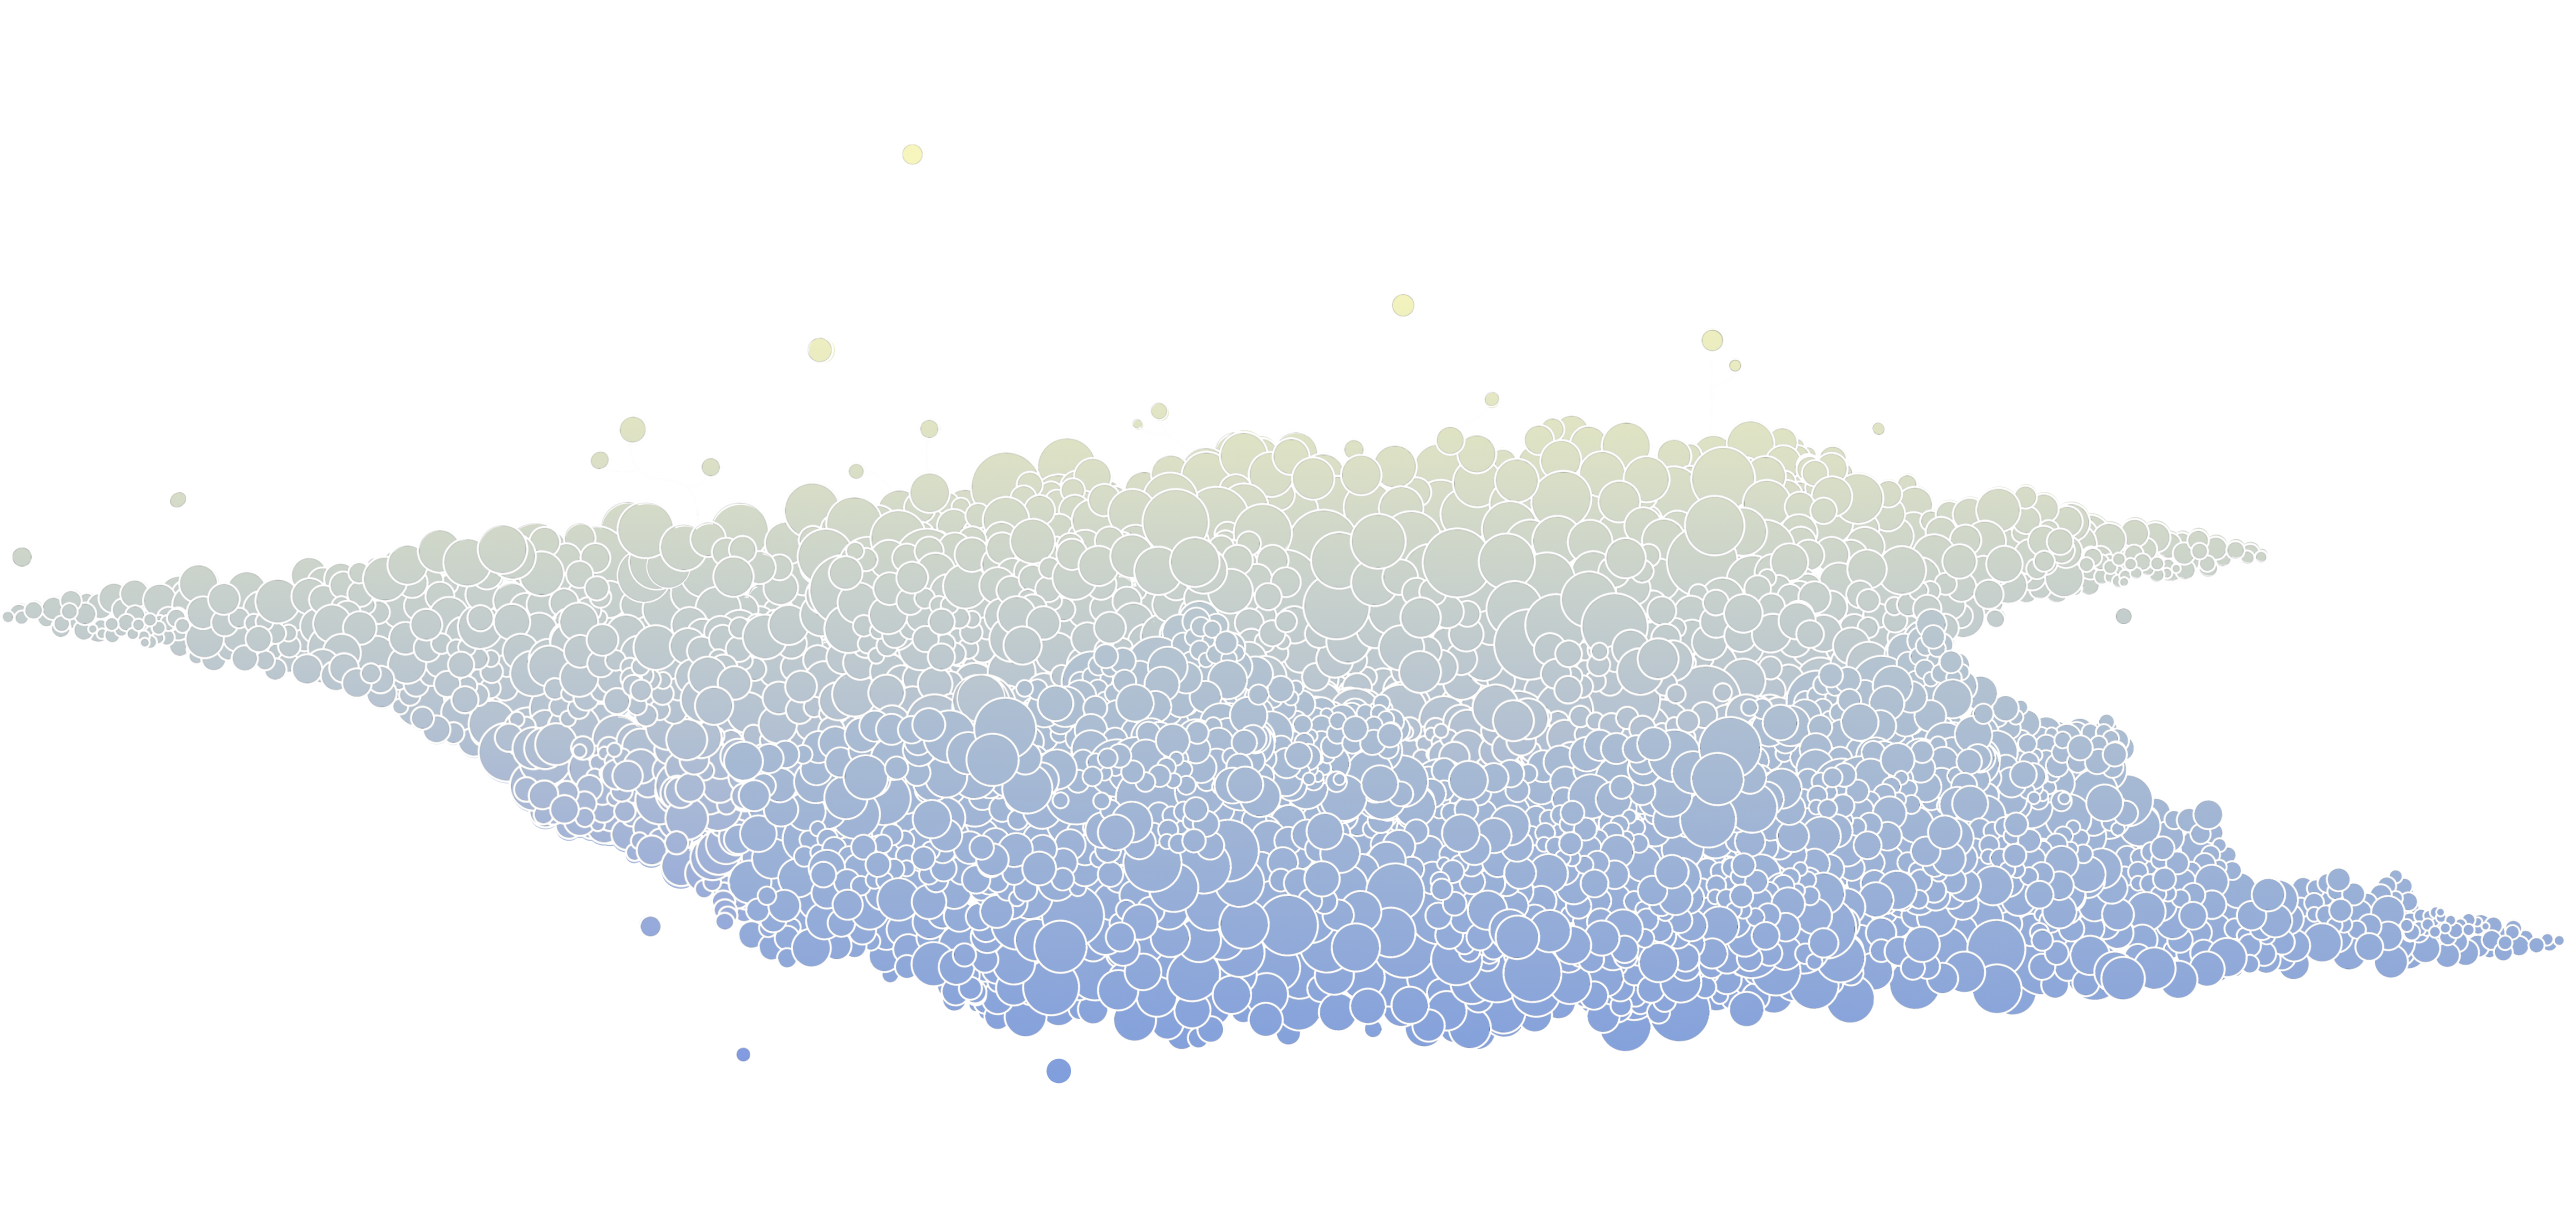
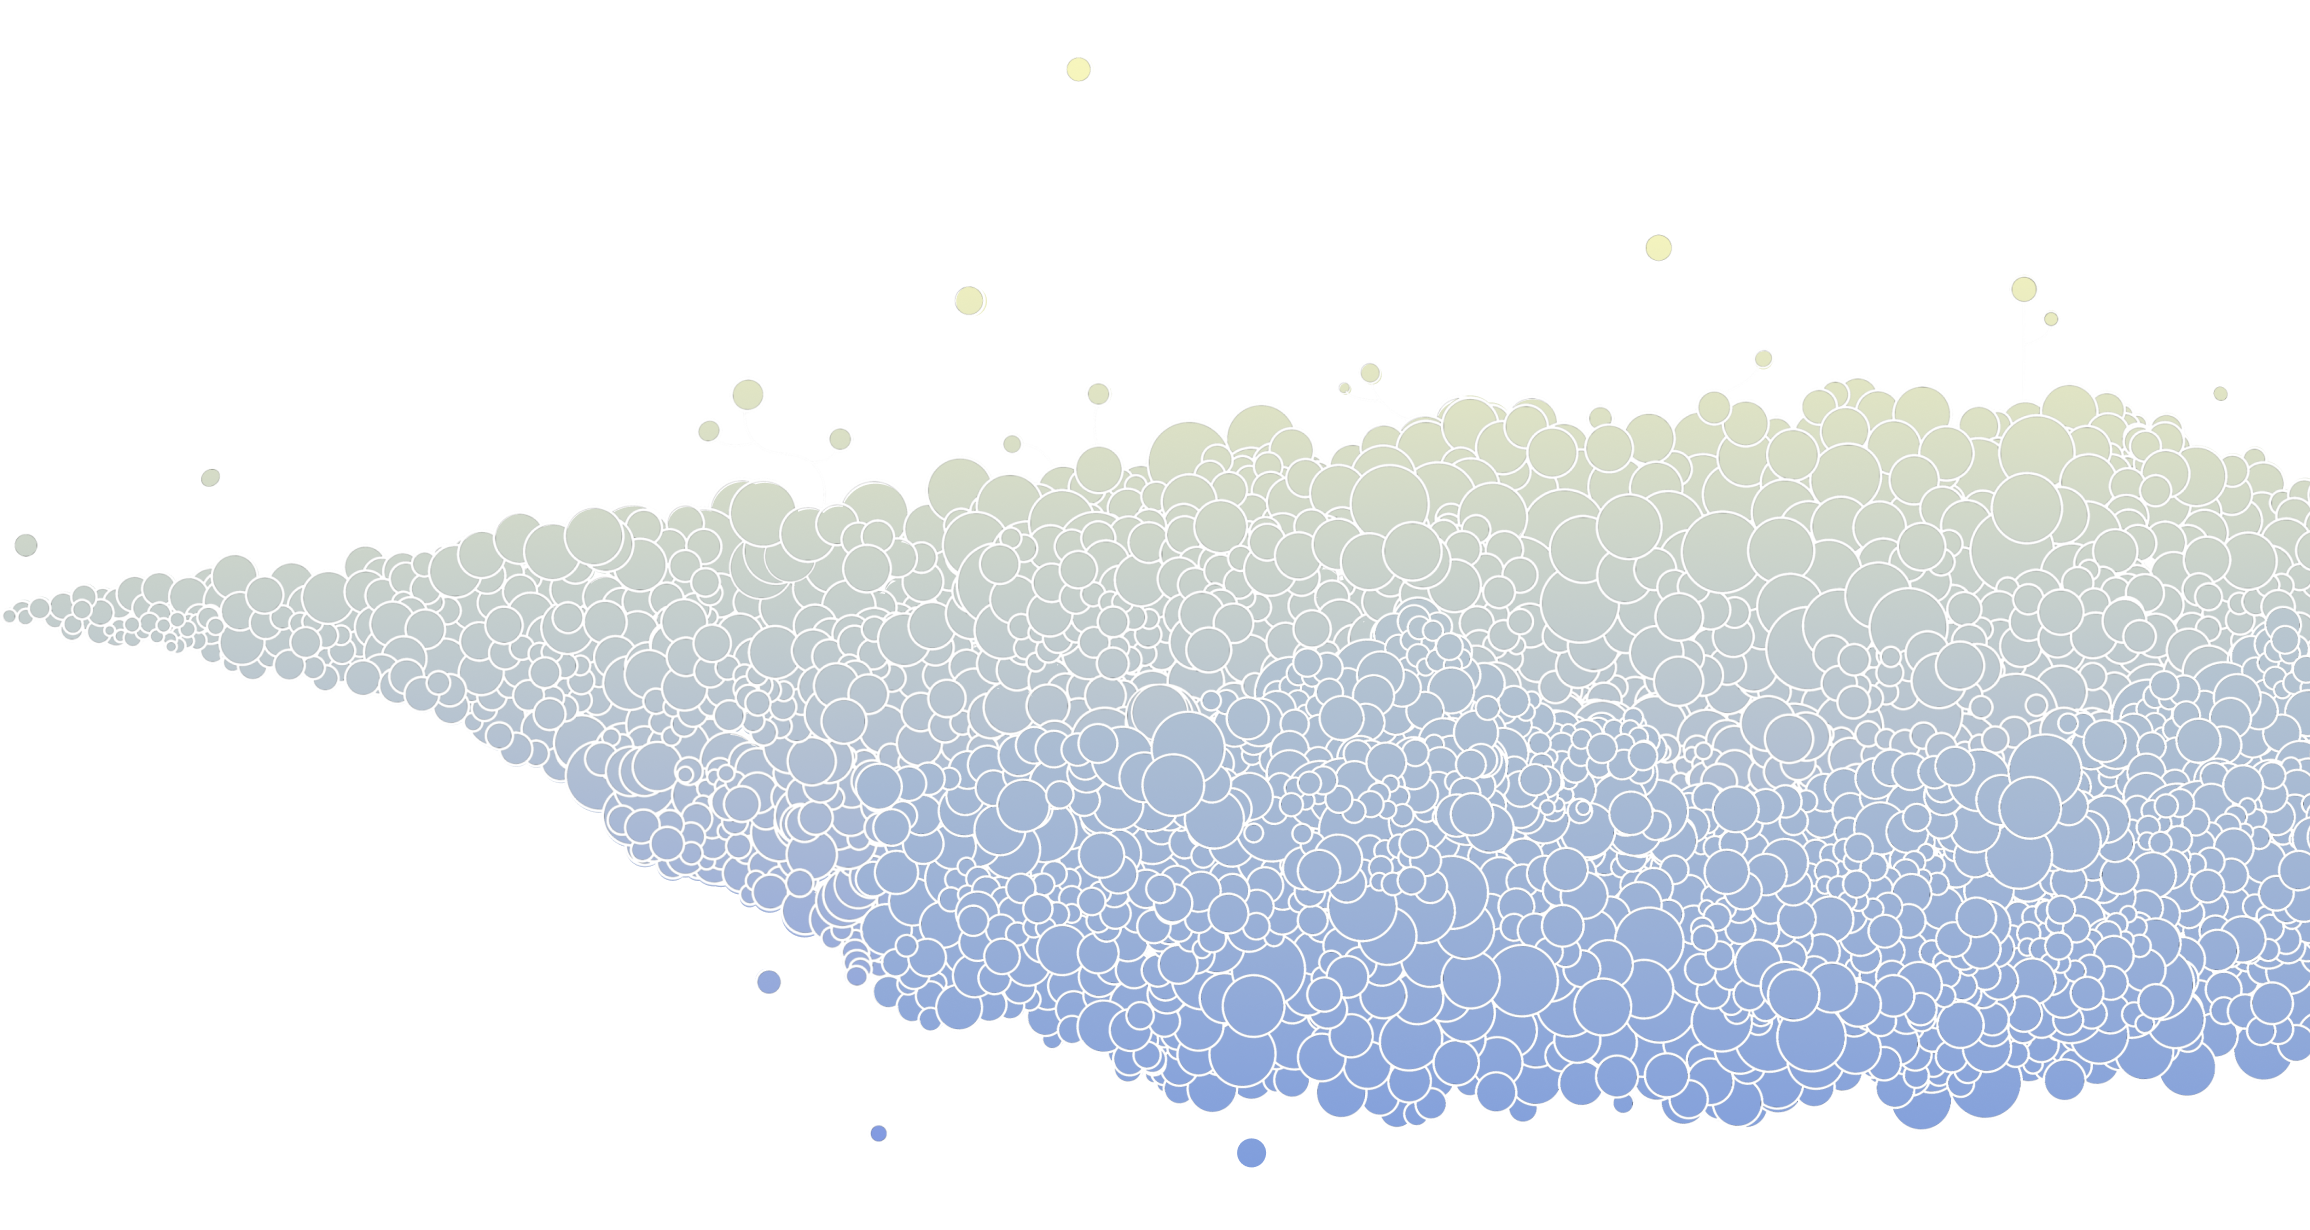
Make sizing dynamic for mobile

diff --git a/app/components/scene.tsx b/app/components/scene.tsx
@@ -20,14 +20,19 @@ import RingDotted from "public/images/ring-dotted.svg";
 import RingThin from "public/images/ring-thin.svg";
 
 const ring = {
-  hidden: { opacity: 0, height: 0, width: 0, transform: "rotate(0)" },
+  hidden: (diameter: number) => ({
+    opacity: 0,
+    height: 0,
+    width: 0,
+    transform: `rotate(${diameter * 3}deg)`,
+  }),
   visible: (diameter: number) => ({
     opacity: 1,
-    width: `${diameter}rem`,
-    height: `${diameter}rem`,
+    width: `${diameter}%`,
+    height: `${diameter}%`,
     transition: {
       type: "spring",
-      delay: diameter * 0.01,
+      delay: diameter * 0.009,
     },
   }),
   rotating: (diameter: number) => ({
@@ -35,7 +40,7 @@ const ring = {
     transition: {
       transform: {
         type: "linear",
-        duration: diameter * 2.5,
+        duration: 18,
         repeat: Infinity,
         ease: "linear",
       },
@@ -48,14 +53,12 @@ const moon = {
     opacity: 0,
     height: 0,
     width: 0,
-    top: 0,
-    left: "50%",
     transform: "translate(-50%, -50%) rotate(0)",
   },
   visible: (diameter: number) => ({
     opacity: 1,
-    height: `${diameter}rem`,
-    width: `${diameter}rem`,
+    height: `${diameter}%`,
+    width: `${diameter}%`,
     transition: {
       type: "spring",
       delay: 2,
@@ -64,7 +67,7 @@ const moon = {
   rotating: {
     transform: "translate(-50%, -50%) rotate(360deg)",
     transition: {
-      delay: 2,
+      delay: 3,
       transform: {
         type: "linear",
         duration: 5,
@@ -77,148 +80,225 @@ const moon = {
 
 export function Scene() {
   return (
-    <div className="h-[calc(100dvh-6rem)] max-h-[calc(100dvh-6rem)] overflow-x-clip relative grid place-items-center">
-      <div className="absolute top-10 left-20">
-        <Image src={Logo} alt="R.A." width={86} height={41} priority />
+    <div className="h-[100dvh] max-h-[100dvh] md:h-[calc(100dvh-6rem)] md:max-h-[calc(100dvh-6rem)] overflow-x-clip relative grid place-items-center">
+      <div className="absolute top-0 h-20 lg:h-32 flex left-4 lg:left-8 right-0 justify-between items-center">
+        <div className="w-16 h-8 lg:w-auto lg:h-auto">
+          <Image
+            src={Logo}
+            alt="R.A."
+            width={86}
+            height={41}
+            className="object-contain"
+          />
+        </div>
+        <div className="w-20 h-full lg:w-32 relative">
+          <Image
+            src={CirclesAndLine}
+            alt="text.."
+            fill={true}
+            className="object-contain"
+          />
+          <motion.div
+            className="h-1/2 w-1/2 absolute"
+            initial={{
+              top: "50%",
+              left: 0,
+              y: "-50%",
+              x: "-50%",
+              rotate: 0,
+            }}
+            animate={{
+              rotate: 360,
+            }}
+            transition={{
+              type: "spring",
+              rotate: {
+                duration: 5,
+                repeat: Infinity,
+              },
+            }}
+          >
+            <Image src={MoonThree} alt="text.." fill={true} />
+          </motion.div>
+        </div>
       </div>
 
-      <motion.div className="absolute grid scale-1/2 place-items-center top-0 bottom-0 left-0 right-0 overflow-hidden -z-1">
+      <motion.div className="absolute h-2/3 top-20 w-full md:top-0 xl:h-[45rem] xl:w-[45rem] grid place-items-center -z-1 ">
         <motion.div
-          className="absolute h-[10rem] w-[10rem]"
+          className="absolute"
           variants={ring}
-          key="ring1"
-          custom={10}
+          custom={22}
           initial="hidden"
           animate="visible"
         >
-          <Image src={RingDotted} alt="text.." fill={true} />
+          <svg
+            className="absolute w-full h-full left-0 top-0"
+            viewBox="0 0 100 100"
+            fill="none"
+          >
+            <circle
+              cx="50"
+              cy="50"
+              r="49.5"
+              stroke="white"
+              strokeWidth="0.5"
+              strokeDasharray="0 2"
+              strokeLinecap="round"
+            />
+          </svg>
         </motion.div>
 
         <motion.div
-          className="absolute h-[12rem] w-[12rem]"
+          className="absolute"
           variants={ring}
-          key="ring2"
-          custom={12}
+          custom={30}
           initial="hidden"
           animate={["visible", "rotating"]}
         >
-          <Image src={RingThick} alt="text.." fill={true} />
+          <svg
+            className="absolute w-full h-full left-0 top-0"
+            viewBox="0 0 100 100"
+            fill="none"
+          >
+            <circle cx="50" cy="50" r="49.5" stroke="white" strokeWidth="0.1" />
+          </svg>
           <motion.div
-            className="absolute h-[1rem] w-[1rem]"
+            className="absolute top-[2px] left-1/2 -translate-x-1/2 -translate-y-1/2"
             variants={moon}
             initial="hidden"
-            custom={1}
-            animate={["visible"]}
+            custom={10}
+            animate={["visible", "rotating"]}
           >
             <Image src={MoonTwo} alt="text.." fill={true} />
           </motion.div>
         </motion.div>
 
         <motion.div
-          className="absolute h-[16rem] w-[16rem]"
+          className="absolute"
           variants={ring}
-          key="ring3"
-          custom={16}
+          custom={38}
           initial="hidden"
           animate="visible"
         >
-          <Image src={RingSolid} alt="text.." fill={true} />
+          <svg
+            className="absolute w-full h-full left-0 top-0"
+            viewBox="0 0 100 100"
+            fill="none"
+          >
+            <circle cx="50" cy="50" r="49.5" stroke="white" strokeWidth="0.1" />
+          </svg>
         </motion.div>
 
         <motion.div
-          className="absolute h-[17rem] w-[17rem]"
+          className="absolute"
           variants={ring}
-          key="ring4"
-          custom={17}
+          custom={40}
           initial="hidden"
           animate={["visible", "rotating"]}
         >
-          <Image src={RingThick} alt="text.." fill={true} />
+          <svg
+            className="absolute w-full h-full left-0 top-0"
+            viewBox="0 0 100 100"
+            fill="none"
+          >
+            <circle cx="50" cy="50" r="49.5" stroke="white" strokeWidth="0.3" />
+          </svg>
           <motion.div
-            className="absolute h-[2rem] w-[2rem]"
+            className="absolute top-[3px] left-1/2 -translate-x-1/2 -translate-y-1/2"
             variants={moon}
             initial="hidden"
-            custom={2}
+            custom={10}
             animate={["visible", "rotating"]}
           >
-            <Image src={MoonOne} alt="text.." fill={true} />
+            <Image src={MoonFour} alt="text.." fill={true} />
           </motion.div>
         </motion.div>
 
         <motion.div
-          className="absolute h-[32rem] w-[32rem]"
+          className="absolute"
           variants={ring}
-          key="ring5"
-          custom={32}
+          custom={75}
           initial="hidden"
           animate={["visible", "rotating"]}
         >
-          <Image src={RingSolid} alt="text.." fill={true} />
-          <motion.div
-            className="absolute h-[3rem] w-[3rem]"
-            variants={moon}
-            initial="hidden"
-            custom={3}
-            animate={["visible", "rotating"]}
+          <svg
+            className="absolute w-full h-full left-0 top-0"
+            viewBox="0 0 100 100"
+            fill="none"
           >
-            <Image src={MoonThree} alt="text.." fill={true} />
-          </motion.div>
-        </motion.div>
-
-        <motion.div
-          className="absolute h-[56rem] w-[56rem"
-          variants={ring}
-          key="ring6"
-          custom={56}
-          initial="hidden"
-          animate={["visible", "rotating"]}
-        >
-          <Image src={RingThin} alt="text.." fill={true} />
+            <circle
+              cx="50"
+              cy="50"
+              r="49.5"
+              stroke="white"
+              strokeWidth="0.05"
+            />
+          </svg>
           <motion.div
-            className="absolute h-[3rem] w-[3rem]"
+            className="absolute top-[2px] left-1/2 -translate-x-1/2 -translate-y-1/2"
             variants={moon}
             initial="hidden"
-            custom={4}
+            custom={6}
             animate={["visible", "rotating"]}
           >
             <Image src={MoonFive} alt="text.." fill={true} />
           </motion.div>
         </motion.div>
+
+        <motion.div
+          className="absolute"
+          variants={ring}
+          custom={110}
+          initial="hidden"
+          animate={["visible", "rotating"]}
+        >
+          <svg
+            className="absolute w-full h-full left-0 top-0"
+            viewBox="0 0 100 100"
+            fill="none"
+          >
+            <circle
+              cx="50"
+              cy="50"
+              r="49.5"
+              stroke="white"
+              strokeWidth="0.15"
+              strokeDasharray="0 0.5"
+              strokeLinecap="round"
+            />
+          </svg>
+          <motion.div
+            className="absolute top-[3px] left-1/2 -translate-x-1/2 -translate-y-1/2"
+            variants={moon}
+            initial="hidden"
+            custom={6}
+            animate="visible"
+          >
+            <Image src={MoonOne} alt="text.." fill={true} />
+          </motion.div>
+        </motion.div>
       </motion.div>
 
-      <div className="absolute bottom-0 left-10">
+      <div className="absolute hidden bottom-0 left-20 lg:block">
         <Image src={CirclesWhite} alt="text.." width={250} height={250} />
       </div>
-      <div className="absolute top-10 right-0">
-        <Image src={CirclesAndLine} alt="text.." width={200} height={200} />
-        <motion.div
-          className="absolute h-[5rem] w-[5rem]"
-          initial={{
-            top: "50%",
-            left: 0,
-            y: "-50%",
-            x: "-50%",
-            rotate: 0,
-          }}
-          animate={{
-            rotate: 360,
-          }}
-          transition={{
-            type: "spring",
-            rotate: {
-              duration: 5,
-              repeat: Infinity,
-            },
-          }}
-        >
-          <Image src={MoonThree} alt="text.." fill={true} />
-        </motion.div>
+      <div className="absolute bottom-5 lg:bottom-16 right-[8%] md:right-[12%] w-32 md:w-auto">
+        <Image
+          src={TallTree}
+          alt="text.."
+          width={160}
+          height={300}
+          className="object-cover"
+        />
       </div>
-      <div className="absolute bottom-5 lg:bottom-20 right-[12%]">
-        <Image src={TallTree} alt="text.." width={150} height={300} />
-      </div>
-      <div className="absolute bottom-0 right-0 translate-x-1/4 translate-y-1/2">
-        <Image src={Dots} alt="text.." width={1200} height={300} />
+      <div className="absolute bottom-0 right-0 translate-y-1/2 w-full md:w-auto">
+        <Image
+          src={Dots}
+          alt="text.."
+          width="1000"
+          height="300"
+          className="object-cover object-left"
+        />
       </div>
     </div>
   );
